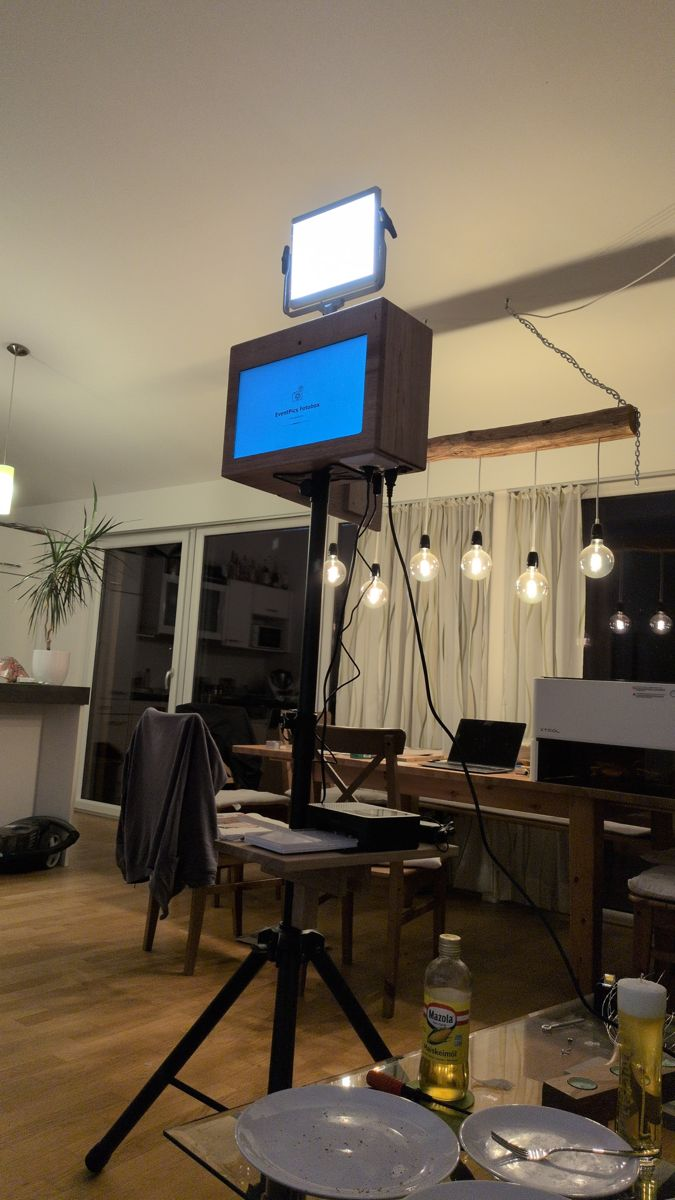
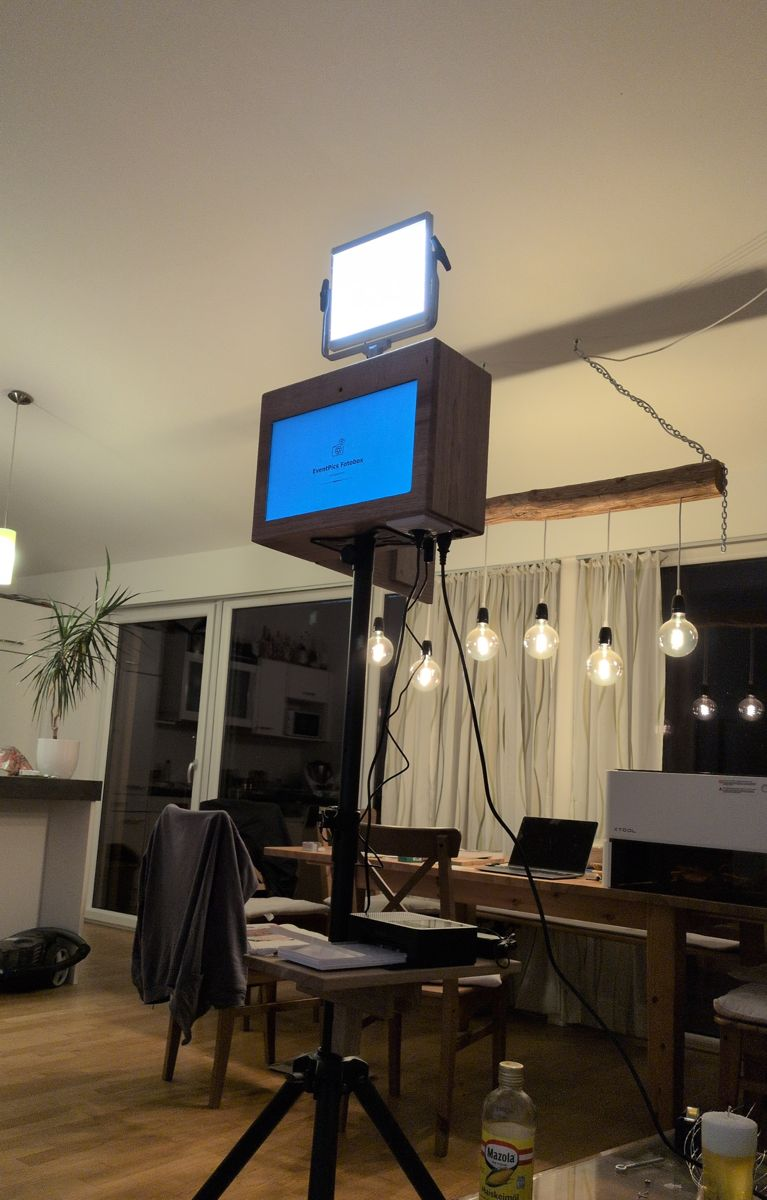
Lizenz richtiggestellt, Preise zusammengeführt, Teller weggeschnitten
Die Anleitung schrieb der Software eine MIT-Lizenz zu. Das Repository steht
unter GPL-3.0-or-later, und genau das ist der Punkt: Wer die Software
weitergibt, muss seinen Quelltext offenlegen. Eine falsche Lizenzangabe in
einer Anleitung, die zum Nachbauen einlädt, ist kein Schönheitsfehler.

Dazu die Preise auf denselben Stand wie auf event.pics gebracht: der Drucker
mit 119 Euro statt geschätzter 150, die Summe mit 818 Euro für alles und
753 Euro ohne Hintergrund und Requisiten.

Auf dem ersten Bild lagen zwei Teller vom Abendessen im Bild. Unterer Rand
weg, die Box steht jetzt allein da.

diff --git a/docs/build-guide.html b/docs/build-guide.html
@@ -41,6 +41,9 @@ header.top .wrap{display:flex;flex-direction:column;gap:18px}
 h1{font-family:var(--font-display);font-size:clamp(34px,6vw,52px);line-height:1.05;
    margin:0;font-weight:700;letter-spacing:-.02em;text-wrap:balance}
 .lede{font-size:19px;color:var(--muted);margin:0;max-width:62ch}
+.draft{align-self:flex-start;font-family:var(--font-mono);font-size:13px;
+       letter-spacing:.04em;border:2px solid var(--accent);border-radius:999px;
+       padding:5px 14px;color:var(--ink);background:var(--accent-soft)}
 .facts{display:flex;flex-wrap:wrap;gap:10px;margin-top:6px}
 .fact{font-family:var(--font-mono);font-size:12.5px;border:1px solid var(--line);
       border-radius:999px;padding:5px 12px;color:var(--muted);background:var(--card)}
@@ -96,6 +99,7 @@ footer{border-top:1px solid var(--line);padding-block:32px 60px;color:var(--mute
 <body>
 <header class="top"><div class="wrap">
   <div class="eyebrow">EventPics Fotobox</div>
+  <div class="draft">Entwurf, Stand 20. November 2026</div>
   <h1>Fotobox selber bauen</h1>
   <p class="lede">Diese Anleitung beschreibt genau die Box auf den Bildern: eine Holzkiste mit Touchscreen, Kamera, Leuchte und Drucker, auf einem Lautsprecherständer. Sie nimmt auf, zeigt das Ergebnis, druckt es und lädt es auf Wunsch in eine EventPics-Galerie. Bedient wird sie nur an ihrem eigenen Bildschirm.</p>
   <div class="facts"><span class="fact">410 × 290 × 180 mm</span><span class="fact">Eiche 15 mm</span><span class="fact">Raspberry Pi 4B</span><span class="fact">15,6″ Touch</span><span class="fact">Selphy CP1500</span><span class="fact">rund 700 Euro</span></div>
@@ -104,6 +108,7 @@ footer{border-top:1px solid var(--line);padding-block:32px 60px;color:var(--mute
 <figure><img src="images/booth-on-stand.jpg" alt="Die fertige Box auf dem Ständer"></figure>
 <p>Diese Anleitung beschreibt genau die Box auf den Bildern: eine Holzkiste mit Touchscreen, Kamera, Leuchte und Drucker, auf einem Lautsprecherständer. Sie nimmt auf, zeigt das Ergebnis, druckt es und lädt es auf Wunsch in eine EventPics-Galerie. Bedient wird sie nur an ihrem eigenen Bildschirm.</p>
 <p>Alle Teile heißen hier so, wie sie auch in der Software und in den Zeichnungen heißen, also englisch: <code>front</code>, <code>door</code>, <code>shelf</code>, <code>pi mount</code>, <code>iec inlet</code>.</p>
+<blockquote><p><strong>Entwurf, Stand 20. November 2026.</strong> Diese Anleitung ist noch nicht fertig. Ein Teil der Maße ist von Fotos abgenommen und nicht am Holz nachgemessen, und die Bilder werden durch neue vor neutralem Hintergrund ersetzt. Miss an deinem eigenen Material nach, bevor du sägst oder bestellst.</p></blockquote>
 <h2>Was dabei herauskommt</h2>
 <div class="tablewrap"><table><tbody><tr><td>Gehäuse</td><td>410 × 290 × 180 mm, Eiche massiv 15 mm</td></tr><tr><td>Bildschirm</td><td>15,6 Zoll, Touch, bündig in der Front</td></tr><tr><td>Kamera</td><td>Raspberry Pi Camera Module 3, schaut durch ein Loch Ø 8 mm</td></tr><tr><td>Rechner</td><td>Raspberry Pi 4B, liegt auf einem 3D-Druckteil</td></tr><tr><td>Licht</td><td>Godox LP400Bi auf dem Deckel</td></tr><tr><td>Druck</td><td>Canon Selphy CP1500 auf einer Ablage am Ständer</td></tr><tr><td>Strom</td><td>ein einziges Kaltgerätekabel in die Box</td></tr><tr><td>Aufbauzeit</td><td>etwa zehn Minuten</td></tr></tbody></table></div>
 <div class="strip"><figure><img src="images/booth-front.jpg" alt="Die Box von vorn" loading="lazy"><figcaption>Die Box von vorn</figcaption></figure><figure><img src="images/booth-side.jpg" alt="Die Box von der Seite" loading="lazy"><figcaption>Die Box von der Seite</figcaption></figure></div>
@@ -115,14 +120,14 @@ footer{border-top:1px solid var(--line);padding-block:32px 60px;color:var(--mute
 <h3>Licht</h3>
 <div class="tablewrap"><table><thead><tr><th>Teil</th><th>Was ich verbaut habe</th><th>Preis</th></tr></thead><tbody><tr><td><code>light</code></td><td>Godox LP400Bi, 36 W, 2800 bis 6500 K, CRI ≥ 96, dimmbar, App-Steuerung</td><td>89,00 €</td></tr><tr><td><code>light mount</code></td><td>NEEWER Wand- und Deckenhalterung mit 5/8″-Zapfen und 1/4″-Gewinde</td><td>22,31 €</td></tr><tr><td><code>psu 20 V</code></td><td>Netzteil der Leuchte, liegt ihr bei und bleibt in der Box</td><td>im Preis</td></tr></tbody></table></div>
 <h3>Druck</h3>
-<div class="tablewrap"><table><thead><tr><th>Teil</th><th>Was ich verbaut habe</th><th>Preis</th></tr></thead><tbody><tr><td><code>printer</code></td><td>Canon Selphy CP1500, Thermosublimation, 10 × 15 cm</td><td>ca. 150 €</td></tr><tr><td>Papier</td><td>Canon KP-108IN, 108 Blatt mit Farbband</td><td>ca. 35 €</td></tr><tr><td><code>usb cable</code></td><td>SUNGUY USB 3.0 A auf A, 0,3 m, vom Pi zur Einbaubuchse</td><td>6,41 €</td></tr></tbody></table></div>
+<div class="tablewrap"><table><thead><tr><th>Teil</th><th>Was ich verbaut habe</th><th>Preis</th></tr></thead><tbody><tr><td><code>printer</code></td><td>Canon Selphy CP1500, Thermosublimation, 10 × 15 cm</td><td>ca. 119 €</td></tr><tr><td>Papier</td><td>Canon KP-108IN, 108 Blatt mit Farbband</td><td>ca. 35 €</td></tr><tr><td><code>usb cable</code></td><td>SUNGUY USB 3.0 A auf A, 0,3 m, vom Pi zur Einbaubuchse</td><td>6,41 €</td></tr></tbody></table></div>
 <h3>Ständer und Ablage</h3>
 <div class="tablewrap"><table><thead><tr><th>Teil</th><th>Was ich verbaut habe</th><th>Preis</th></tr></thead><tbody><tr><td><code>stand</code></td><td>GZGDLJQ Boxenständer, 89 bis 180 cm, Rohr 35 mm, bis 30 kg</td><td>25,99 €</td></tr><tr><td><code>pole flange</code></td><td>Drall AD8BA Boxenflansch zum Anschrauben, für 35 mm</td><td>13,20 €</td></tr><tr><td><code>shelf screw</code></td><td>Schraube M8 × 90 mit Flügelmutter und zwei Scheiben</td><td>ca. 2 €</td></tr></tbody></table></div>
 <h3>Elektrik</h3>
 <div class="tablewrap"><table><thead><tr><th>Teil</th><th>Was ich verbaut habe</th><th>Preis</th></tr></thead><tbody><tr><td><code>iec inlet</code></td><td>Powice IEC-C14-Einbaubuchse 10 A mit Schalter und Sicherung, 2 Stück</td><td>11,48 €</td></tr><tr><td><code>power cord</code></td><td>deleyCON Kaltgerätekabel C13 auf Schuko, 3 m</td><td>9,78 €</td></tr><tr><td><code>socket</code></td><td>Schuko-Einbausteckdose, weiß, für den Drucker</td><td>ca. 6 €</td></tr><tr><td><code>junction box</code></td><td>Hohlwanddose Ø 68 mit Steckklemme, 5-polig</td><td>ca. 4 €</td></tr><tr><td><code>usb coupler</code></td><td>Duttek USB-Einbaukupplung, 2-fach, IP67</td><td>9,59 €</td></tr><tr><td><code>power pigtail</code></td><td>Leloco Eurokupplung flach mit 20 cm Kabel, 2 Stück</td><td>6,99 €</td></tr><tr><td><code>cable gland</code></td><td>Verschraubung M20 für das Kabel zur Leuchte</td><td>ca. 3 €</td></tr></tbody></table></div>
 <h3>Holz und Beschläge</h3>
 <div class="tablewrap"><table><thead><tr><th>Teil</th><th>Was ich verbaut habe</th><th>Preis</th></tr></thead><tbody><tr><td>Holz</td><td>Eiche massiv, 15 mm, etwa 0,6 m²</td><td>je nach Quelle</td></tr><tr><td><code>hinge</code></td><td>Wandefol Aufschraubscharnier mit Feder, 90°, 8 Stück im Satz</td><td>13,99 €</td></tr><tr><td><code>cam lock</code></td><td>MUXHEL Möbelschloss Ø 19 mm zum Aufschrauben, Satz</td><td>ca. 10 €</td></tr><tr><td><code>vent</code></td><td>Lüftungsgitter 60 × 60 mm aus Metall</td><td>ca. 5 €</td></tr><tr><td><code>pi mount</code></td><td>3D-Druckteil, Datei in dieser Anleitung</td><td>Filament</td></tr></tbody></table></div>
-<p>Zusammen liegt das bei etwa <strong>650 bis 700 Euro ohne Holz und ohne Papier</strong>. Der größte Posten ist der Bildschirm, der zweitgrößte der Drucker.</p>
+<p>Zusammen sind das <strong>rund 818 Euro</strong> für alles, mit Hintergrund und Requisiten, oder <strong>rund 753 Euro</strong> ohne die beiden. Der größte Posten ist der Bildschirm, der zweitgrößte der Drucker.</p>
 <h2>Werkzeug</h2>
 <p>Tischkreissäge oder eine saubere Handkreissäge mit Schiene, Oberfräse für die Tasche hinter dem Bildschirm, Bohrmaschine, Forstnerbohrer Ø 19 für das Schloss und Ø 68 für die Dose, Stichsäge für den Bildschirmausschnitt, Schrauben 4 × 30, Leim, Schleifpapier, Hartwachsöl. Für die Elektrik eine Abisolierzange und ein Spannungsprüfer.</p>
 <h2>Das Gehäuse</h2>
@@ -222,7 +227,7 @@ sudo systemctl restart photobooth</code></pre>
 <ol><li>Ständer aufstellen, Beine weit auseinander, auf festem Boden</li><li>Box aufsetzen und am Flansch klemmen</li><li>Ablage auf das Rohr schieben, Höhe wählen, Flügelmutter anziehen</li><li>Drucker darauf, Papier und Farbband einlegen</li><li>Leuchte aufstecken und ausrichten</li><li>Kaltgerätekabel anstecken, Schalter an</li><li>Einmessen, Probebild, fertig</li></ol>
 <p><strong>Abbauen</strong> ist dieselbe Liste rückwärts. Den Drucker nie mit eingelegtem Papier transportieren, und die Box nie am Bildschirm anheben.</p>
 <h2>Mitmachen</h2>
-<p>Die Software steht unter der MIT-Lizenz im Repository &lt;https://github.com/eventpics/photobooth&gt;. Zeichnungen, Druckteil und diese Anleitung liegen im selben Repository unter <code>docs/</code>.</p>
+<p>Die Software steht unter der GPL-3.0-or-later im Repository &lt;https://github.com/eventpics/photobooth&gt;. Zeichnungen, Druckteil und diese Anleitung liegen im selben Repository unter <code>docs/</code>.</p>
 <p>Wenn du die Box nachbaust und etwas anders löst, freue ich mich über einen Hinweis. Besonders über Maße, die bei dir besser passen als meine.</p>
 </div></main>
 <footer><div class="wrap">

diff --git a/tools/build-guide-html.py b/tools/build-guide-html.py
@@ -52,6 +52,9 @@ header.top .wrap{display:flex;flex-direction:column;gap:18px}
 h1{font-family:var(--font-display);font-size:clamp(34px,6vw,52px);line-height:1.05;
    margin:0;font-weight:700;letter-spacing:-.02em;text-wrap:balance}
 .lede{font-size:19px;color:var(--muted);margin:0;max-width:62ch}
+.draft{align-self:flex-start;font-family:var(--font-mono);font-size:13px;
+       letter-spacing:.04em;border:2px solid var(--accent);border-radius:999px;
+       padding:5px 14px;color:var(--ink);background:var(--accent-soft)}
 .facts{display:flex;flex-wrap:wrap;gap:10px;margin-top:6px}
 .fact{font-family:var(--font-mono);font-size:12.5px;border:1px solid var(--line);
       border-radius:999px;padding:5px 12px;color:var(--muted);background:var(--card)}
@@ -258,6 +261,7 @@ page = f"""<!doctype html>
 <body>
 <header class="top"><div class="wrap">
   <div class="eyebrow">EventPics Fotobox</div>
+  <div class="draft">Entwurf, Stand 20. November 2026</div>
   <h1>{html.escape(title)}</h1>
   <p class="lede">{inline(lede)}</p>
   <div class="facts">{"".join(f'<span class="fact">{f}</span>' for f in facts)}</div>

diff --git a/docs/build-guide.de.md b/docs/build-guide.de.md
@@ -8,6 +8,11 @@ EventPics-Galerie. Bedient wird sie nur an ihrem eigenen Bildschirm.
 Alle Teile heißen hier so, wie sie auch in der Software und in den Zeichnungen
 heißen, also englisch: `front`, `door`, `shelf`, `pi mount`, `iec inlet`.
 
+> **Entwurf, Stand 20. November 2026.** Diese Anleitung ist noch nicht fertig.
+> Ein Teil der Maße ist von Fotos abgenommen und nicht am Holz nachgemessen,
+> und die Bilder werden durch neue vor neutralem Hintergrund ersetzt. Miss an
+> deinem eigenen Material nach, bevor du sägst oder bestellst.
+
 ![Die fertige Box auf dem Ständer](images/booth-on-stand.jpg)
 
 ## Was dabei herauskommt
@@ -58,7 +63,7 @@ nicht von Amazon, der Rest schon.
 
 | Teil | Was ich verbaut habe | Preis |
 |---|---|---|
-| `printer` | Canon Selphy CP1500, Thermosublimation, 10 × 15 cm | ca. 150 € |
+| `printer` | Canon Selphy CP1500, Thermosublimation, 10 × 15 cm | ca. 119 € |
 | Papier | Canon KP-108IN, 108 Blatt mit Farbband | ca. 35 € |
 | `usb cable` | SUNGUY USB 3.0 A auf A, 0,3 m, vom Pi zur Einbaubuchse | 6,41 € |
 
@@ -92,8 +97,9 @@ nicht von Amazon, der Rest schon.
 | `vent` | Lüftungsgitter 60 × 60 mm aus Metall | ca. 5 € |
 | `pi mount` | 3D-Druckteil, Datei in dieser Anleitung | Filament |
 
-Zusammen liegt das bei etwa **650 bis 700 Euro ohne Holz und ohne Papier**. Der
-größte Posten ist der Bildschirm, der zweitgrößte der Drucker.
+Zusammen sind das **rund 818 Euro** für alles, mit Hintergrund und Requisiten,
+oder **rund 753 Euro** ohne die beiden. Der größte Posten ist der Bildschirm, der
+zweitgrößte der Drucker.
 
 ## Werkzeug
 
@@ -393,7 +399,7 @@ transportieren, und die Box nie am Bildschirm anheben.
 
 ## Mitmachen
 
-Die Software steht unter der MIT-Lizenz im Repository
+Die Software steht unter der GPL-3.0-or-later im Repository
 <https://github.com/eventpics/photobooth>. Zeichnungen, Druckteil und diese
 Anleitung liegen im selben Repository unter `docs/`.
 

diff --git a/README.md b/README.md
@@ -13,7 +13,7 @@ it or print from it. The interface is built for 1920 × 1200 and scaled as a
 whole on any other screen.
 
 *Diese Datei auf Deutsch: [README.de.md](README.de.md).*
-**The full build guide, with photographs, drawings and a bill of materials**
+**The full build guide, with photographs, drawings and a bill of materials** (a draft)
 (German): [docs/build-guide.de.md](docs/build-guide.de.md), on the web at
 <https://event.pics/de/fotobox-selber-bauen.html>.
 

diff --git a/README.de.md b/README.de.md
@@ -13,7 +13,7 @@ oder drucken. Gebaut ist die Oberfläche für 1920 × 1200 und wird auf jedem
 Bildschirm als Ganzes skaliert.
 
 *This file in English: [README.md](README.md).*
-**Die ganze Bauanleitung mit Bildern, Zeichnungen und Stückliste:**
+**Die ganze Bauanleitung mit Bildern, Zeichnungen und Stückliste** (Entwurf):
 [docs/build-guide.de.md](docs/build-guide.de.md), im Netz unter
 <https://event.pics/de/fotobox-selber-bauen.html>.
 
